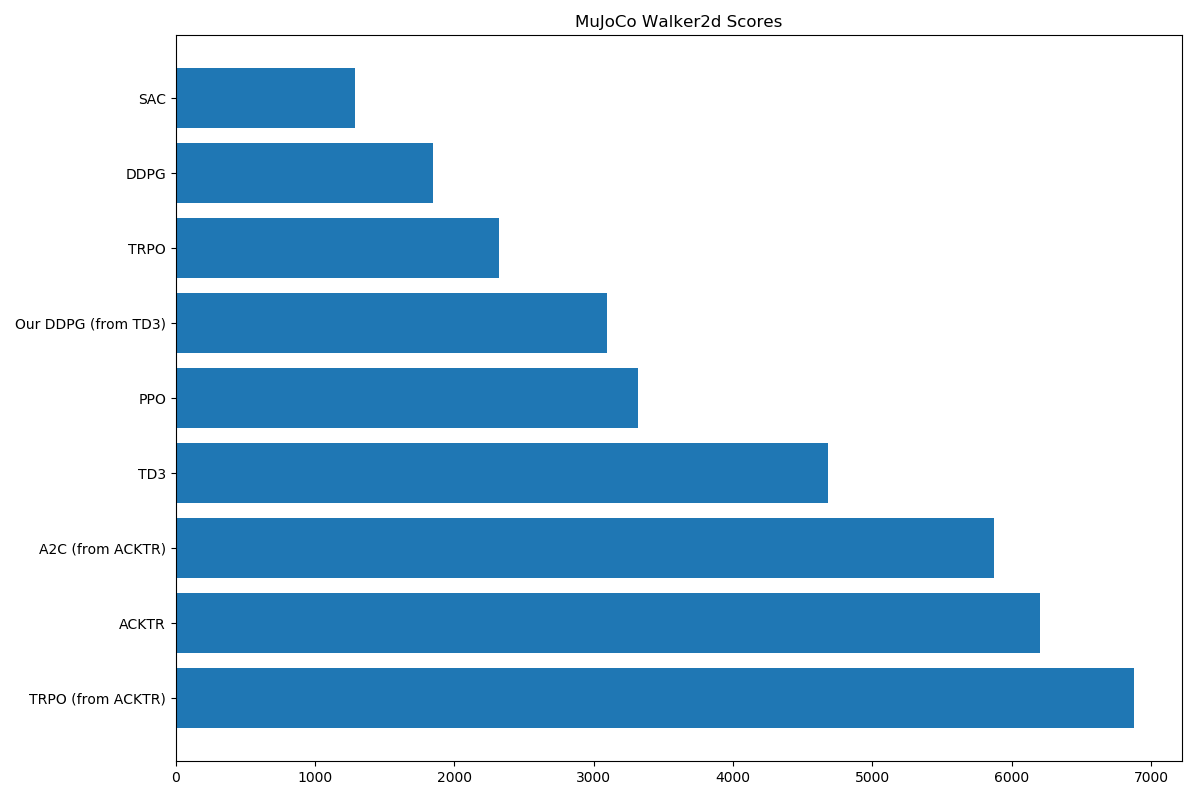
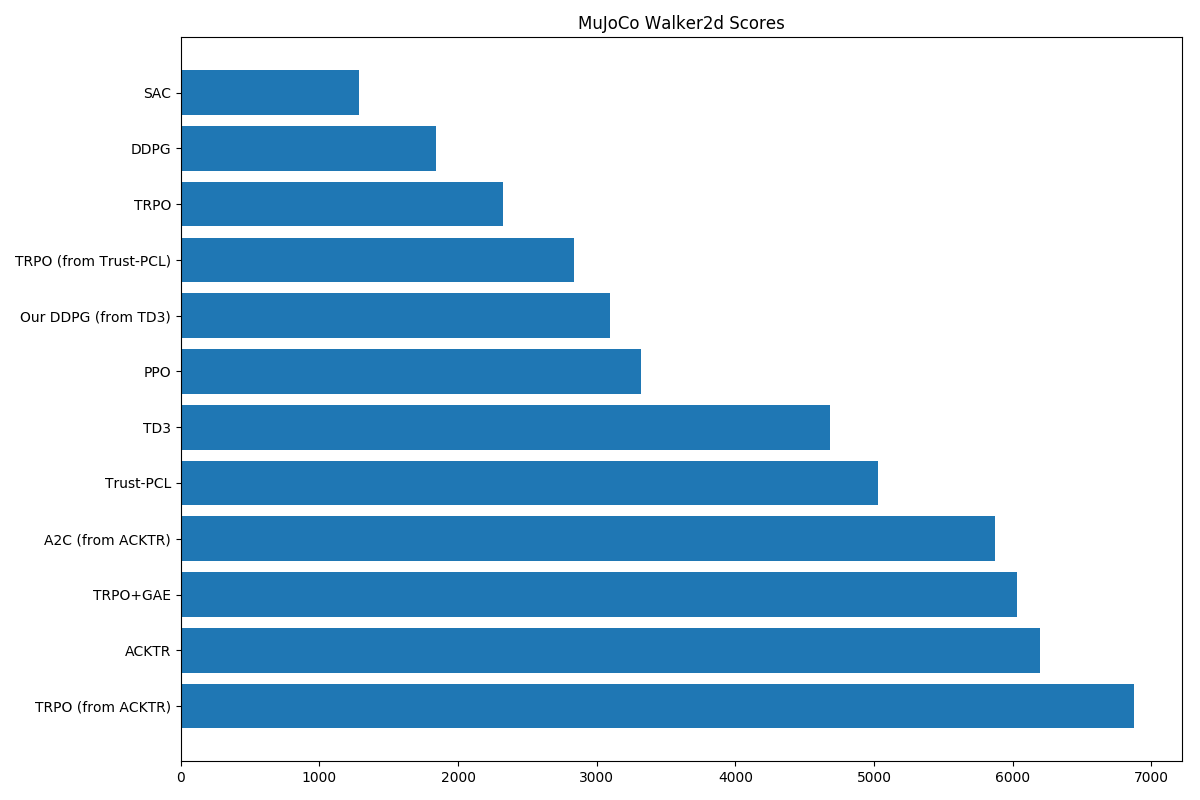
Add Trust-PCL paper (#38)
* Add init file for Trust-PCL

* Populate entries for Trust-PCL paper

* Add Trust-PCL to rldb

* Update unit tests for Trust-PCL

* Update README plots

* Update README

diff --git a/rldb/db/paper__trust_pcl/__init__.py b/rldb/db/paper__trust_pcl/__init__.py
@@ -1,0 +1,49 @@
+from .algo__trpo_gae import entries as trpo_gae_entries
+from .algo__trpo_ours import entries as trpo_ours_entries
+from .algo__trust_pcl import entries as trust_pcl_entries
+
+
+# Specify SOURCE
+source = {
+    #  BASICS
+    "source-title": "Trust-PCL: An Off-Policy Trust Region Method for Continuous Control",
+    "source-nickname": "Trust-PCL",
+    "source-authors": [
+        "Ofir Nachum",
+        "Mohammad Norouzi",
+        "Kelvin Xu",
+        "Dale Schuurmans",
+    ],
+
+    #  ARXIV
+    "source-arxiv-id": "1707.01891",
+    "source-arxiv-version": 3,
+
+    #  MISC.
+    "source-bibtex": """\
+@article{DBLP:journals/corr/NachumNXS17aa,
+    author    = {Ofir Nachum and
+                 Mohammad Norouzi and
+                 Kelvin Xu and
+                 Dale Schuurmans},
+    title     = {Trust-PCL: An Off-Policy Trust Region Method for Continuous Control},
+    journal   = {CoRR},
+    volume    = {abs/1707.01891},
+    year      = {2017},
+    url       = {http://arxiv.org/abs/1707.01891},
+    archivePrefix = {arXiv},
+    eprint    = {1707.01891},
+    timestamp = {Mon, 13 Aug 2018 16:47:10 +0200},
+    biburl    = {https://dblp.org/rec/bib/journals/corr/NachumNXS17aa},
+    bibsource = {dblp computer science bibliography, https://dblp.org}
+}""",
+}
+
+# Populate entries
+entries = (
+    []
+    + trpo_gae_entries
+    + trpo_ours_entries
+    + trust_pcl_entries
+)
+entries = [{**entry, **source} for entry in entries]

diff --git a/tests/test_metrics.py b/tests/test_metrics.py
@@ -15,7 +15,7 @@ def test_paper_count():
     all_entries = rldb.find_all({})
     all_papers = set([e['source-title'] for e in all_entries])
 
-    assert len(all_papers) == 18
+    assert len(all_papers) == 19
 
 
 def test_algo_count():
@@ -23,14 +23,14 @@ def test_algo_count():
     all_entries = rldb.find_all({})
     all_algos = set([e['algo-title'] for e in all_entries])
 
-    assert len(all_algos) == 65
+    assert len(all_algos) == 68
 
 
 def test_entries_count():
     """Verify number of entries in rldb. This number should match README."""
     all_entries = rldb.find_all({})
 
-    assert len(all_entries) == 2751
+    assert len(all_entries) == 2766
     assert len(all_entries) == (
         0
         + 171  # A3C
@@ -51,4 +51,5 @@ def test_entries_count():
         + 18   # RND
         + 49   # TD3
         + 21   # TRPO
+        + 15   # Trust-PCL
     )

diff --git a/rldb/db/paper__trust_pcl/algo__trpo_gae/__init__.py b/rldb/db/paper__trust_pcl/algo__trpo_gae/__init__.py
@@ -1,0 +1,27 @@
+"""
+TRPO+GAE scores from Trust-PCL paper.
+
+ 5 entries
+------------------------------------------------------------------------
+ 5 unique entries
+
+"""
+from .entries import entries
+
+
+# Specify ALGORITHM
+algo = {
+    # ALGORITHM
+    "algo-title": "Trust Region Policy Optimization + Generalized Advantage Estimation",
+    "algo-nickname": "TRPO+GAE",
+    "algo-source-title": "High-Dimensional Continuous Control Using Generalized Advantage Estimation",
+
+    # HYPERPARAMETERS
+    # Not specified
+    "algo-frames": 10000000,
+}
+
+# Populate entries
+entries = [{**entry, **algo} for entry in entries]
+
+assert len(entries) == 5

diff --git a/rldb/db/paper__trust_pcl/algo__trust_pcl/__init__.py b/rldb/db/paper__trust_pcl/algo__trust_pcl/__init__.py
@@ -1,0 +1,27 @@
+"""
+Trust-PCL scores from Trust-PCL paper.
+
+ 5 entries
+------------------------------------------------------------------------
+ 5 unique entries
+
+"""
+from .entries import entries
+
+
+# Specify ALGORITHM
+algo = {
+    # ALGORITHM
+    "algo-title": "Trust Region Path Consistency Learning",
+    "algo-nickname": "Trust-PCL",
+    "algo-source-title": "Trust-PCL: An Off-Policy Trust Region Method for Continuous Control",
+
+    # HYPERPARAMETERS
+    # Not specified
+    "algo-frames": 10000000,
+}
+
+# Populate entries
+entries = [{**entry, **algo} for entry in entries]
+
+assert len(entries) == 5

diff --git a/rldb/db/paper__trust_pcl/algo__trpo_ours/__init__.py b/rldb/db/paper__trust_pcl/algo__trpo_ours/__init__.py
@@ -1,0 +1,27 @@
+"""
+TRPO (ours) scores from Trust-PCL paper.
+
+ 5 entries
+------------------------------------------------------------------------
+ 5 unique entries
+
+"""
+from .entries import entries
+
+
+# Specify ALGORITHM
+algo = {
+    # ALGORITHM
+    "algo-title": "Trust Region Policy Optimization (from Trust-PCL)",
+    "algo-nickname": "TRPO (from Trust-PCL)",
+    "algo-source-title": "Trust Region Policy Optimization",
+
+    # HYPERPARAMETERS
+    # Not specified
+    "algo-frames": 10000000,
+}
+
+# Populate entries
+entries = [{**entry, **algo} for entry in entries]
+
+assert len(entries) == 5

diff --git a/tests/test_paper_metrics.py b/tests/test_paper_metrics.py
@@ -228,3 +228,17 @@ def test_trpo_paper_count():
         + 7  # TRPO (vine)
         + 7  # UCC-I
     )
+
+
+def test_trust_pcl_paper_count():
+    """Verify number of entries in Trust-PCL paper."""
+    trust_pcl_entries = rldb.find_all({
+        'source-title': 'Trust-PCL: An Off-Policy Trust Region Method for Continuous Control',
+    })
+
+    assert len(trust_pcl_entries) == (
+        0
+        + 5  # TRPO+GAE
+        + 5  # TRPO (from Trust-PCL)
+        + 5  # Trust-PCL
+    )

diff --git a/rldb/db/paper__trust_pcl/algo__trpo_gae/entries.py b/rldb/db/paper__trust_pcl/algo__trpo_gae/entries.py
@@ -1,0 +1,22 @@
+entries = [
+    {
+        'env-title': 'mujoco-half-cheetah',
+        'score': 4871.36,
+    },
+    {
+        'env-title': 'mujoco-swimmer',
+        'score': 137.25,
+    },
+    {
+        'env-title': 'mujoco-hopper',
+        'score': 3765.78,
+    },
+    {
+        'env-title': 'mujoco-walker2d',
+        'score': 6028.73,
+    },
+    {
+        'env-title': 'mujoco-ant',
+        'score': 2918.25,
+    },
+]

diff --git a/rldb/db/paper__trust_pcl/algo__trpo_ours/entries.py b/rldb/db/paper__trust_pcl/algo__trpo_ours/entries.py
@@ -1,0 +1,22 @@
+entries = [
+    {
+        'env-title': 'mujoco-half-cheetah',
+        'score': 4343.6,
+    },
+    {
+        'env-title': 'mujoco-swimmer',
+        'score': 288.1,
+    },
+    {
+        'env-title': 'mujoco-hopper',
+        'score': 3516.7,
+    },
+    {
+        'env-title': 'mujoco-walker2d',
+        'score': 2838.4,
+    },
+    {
+        'env-title': 'mujoco-ant',
+        'score': 4347.5,
+    },
+]

diff --git a/rldb/db/paper__trust_pcl/algo__trust_pcl/entries.py b/rldb/db/paper__trust_pcl/algo__trust_pcl/entries.py
@@ -1,0 +1,22 @@
+entries = [
+    {
+        'env-title': 'mujoco-half-cheetah',
+        'score': 7057.1,
+    },
+    {
+        'env-title': 'mujoco-swimmer',
+        'score': 297.0,
+    },
+    {
+        'env-title': 'mujoco-hopper',
+        'score': 3804.9,
+    },
+    {
+        'env-title': 'mujoco-walker2d',
+        'score': 5027.2,
+    },
+    {
+        'env-title': 'mujoco-ant',
+        'score': 6104.2,
+    },
+]

diff --git a/rldb/db/__init__.py b/rldb/db/__init__.py
@@ -16,6 +16,7 @@ from .paper__iqn import entries as iqn_entries
 from .paper__ppo import entries as ppo_entries
 from .paper__td3 import entries as td3_entries
 from .paper__trpo import entries as trpo_entries
+from .paper__trust_pcl import entries as trust_pcl_entries
 
 entries = (
     []
@@ -37,4 +38,5 @@ entries = (
     + ppo_entries
     + td3_entries
     + trpo_entries
+    + trust_pcl_entries
 )

diff --git a/README.md b/README.md
@@ -5,9 +5,9 @@
 [![Build Status](https://travis-ci.com/seungjaeryanlee/rldb.svg?branch=master)](https://travis-ci.com/seungjaeryanlee/rldb)
 
 ![Environments tracked in rldb](https://img.shields.io/badge/environments-65-blue.svg)
-![Papers tracked in rldb](https://img.shields.io/badge/papers-18-blue.svg)
-![Algorithms tracked in rldb](https://img.shields.io/badge/algorithms-65-blue.svg)
-![Entries tracked in rldb](https://img.shields.io/badge/entries-2751-blue.svg)
+![Papers tracked in rldb](https://img.shields.io/badge/papers-19-blue.svg)
+![Algorithms tracked in rldb](https://img.shields.io/badge/algorithms-68-blue.svg)
+![Entries tracked in rldb](https://img.shields.io/badge/entries-2766-blue.svg)
 
 Database of state-of-the-art RL algorithms
 
@@ -48,4 +48,6 @@ Database of state-of-the-art RL algorithms
 
 - [x] [Exploration by Random Network Distillation (Burda et al., 2018)](https://arxiv.org/abs/1810.12894)
 
-### To Be Added
+#### Misc.
+
+- [x] [Trust-PCL: An Off-Policy Trust Region Method for Continuous Control (Nachum et al., 2017)](https://arxiv.org/abs/1707.01891)
